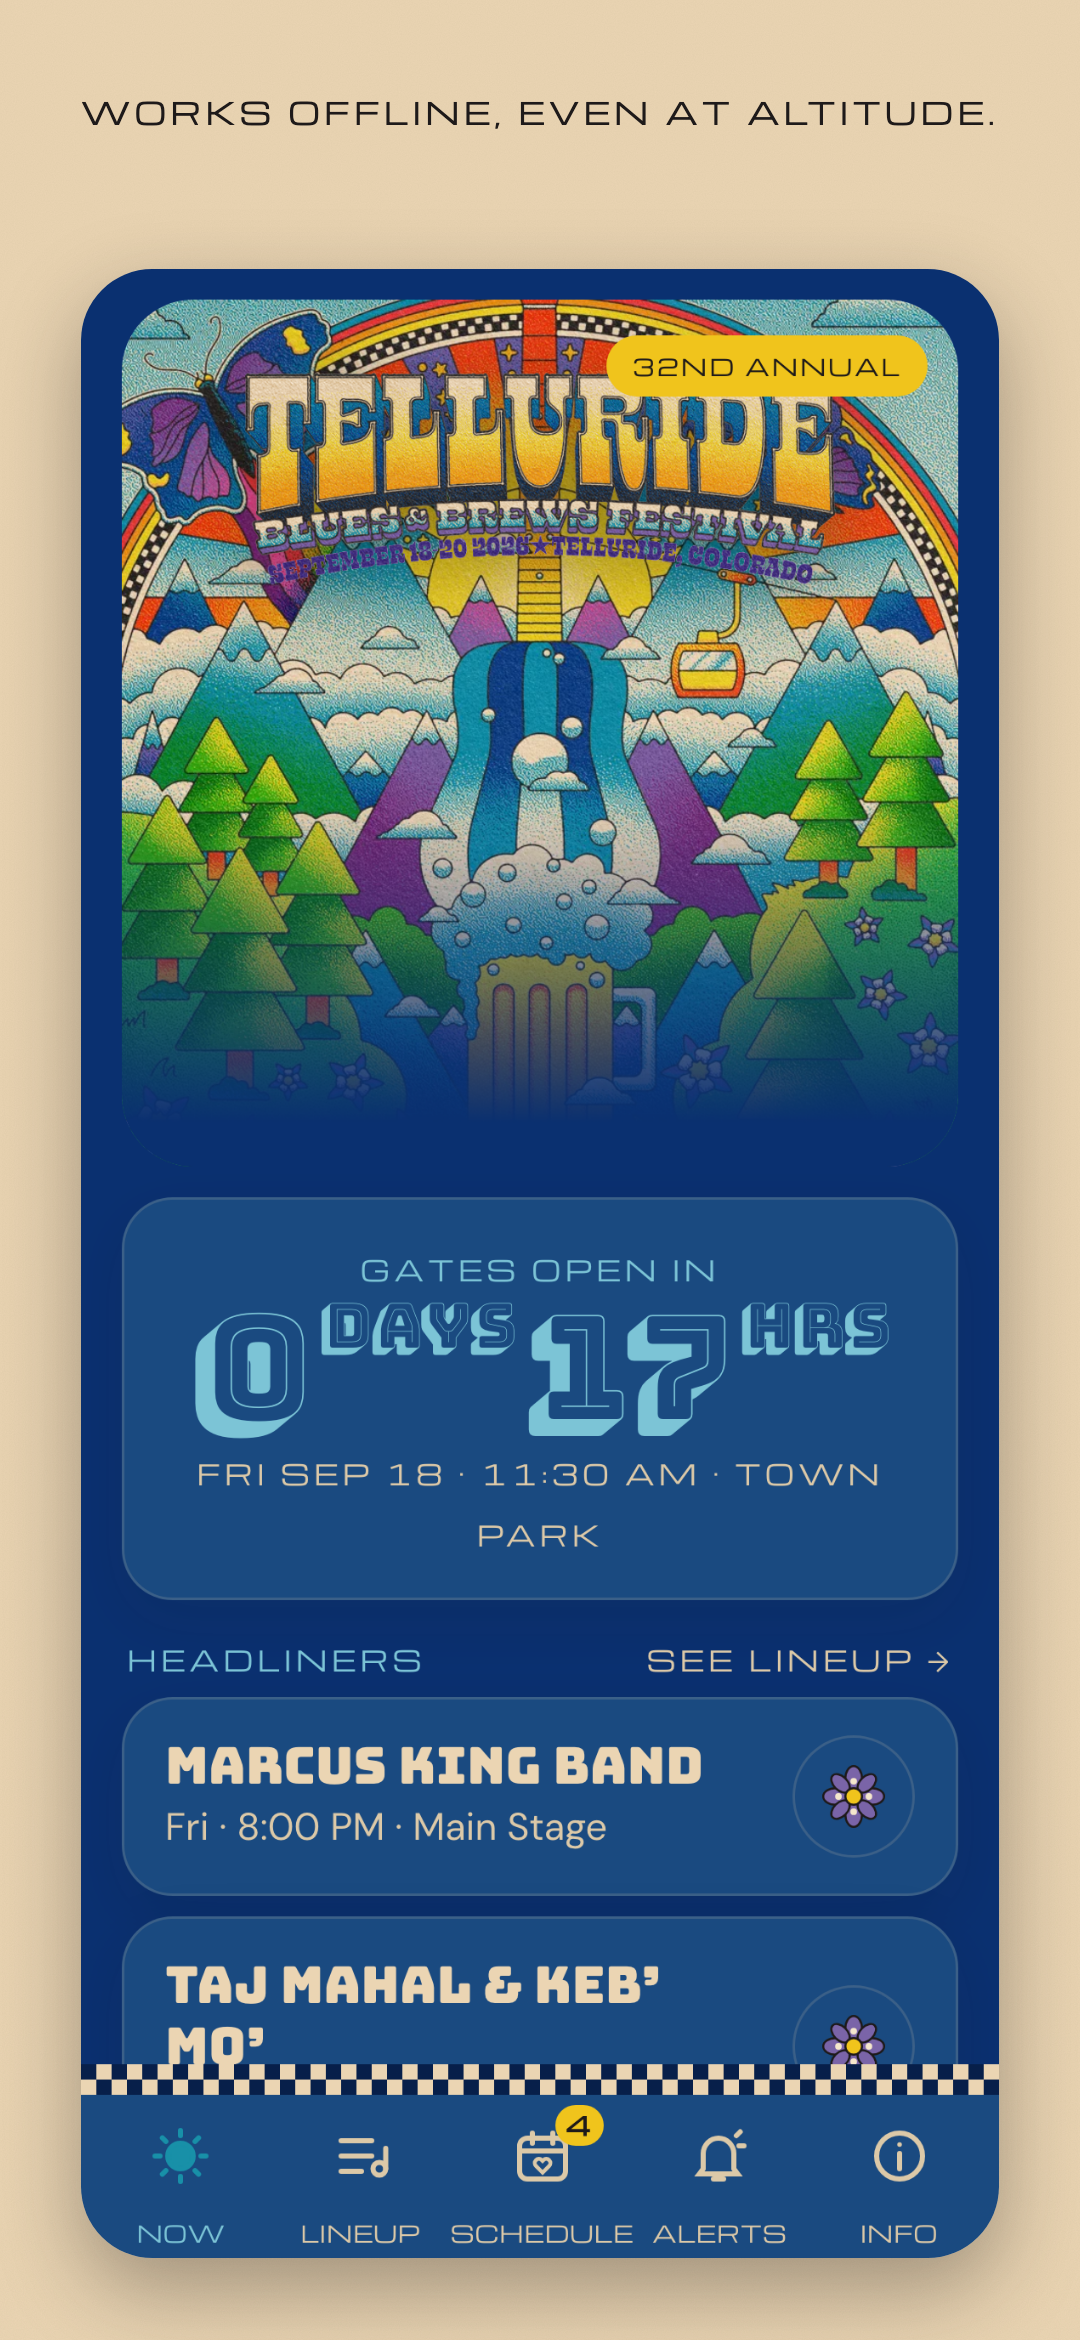
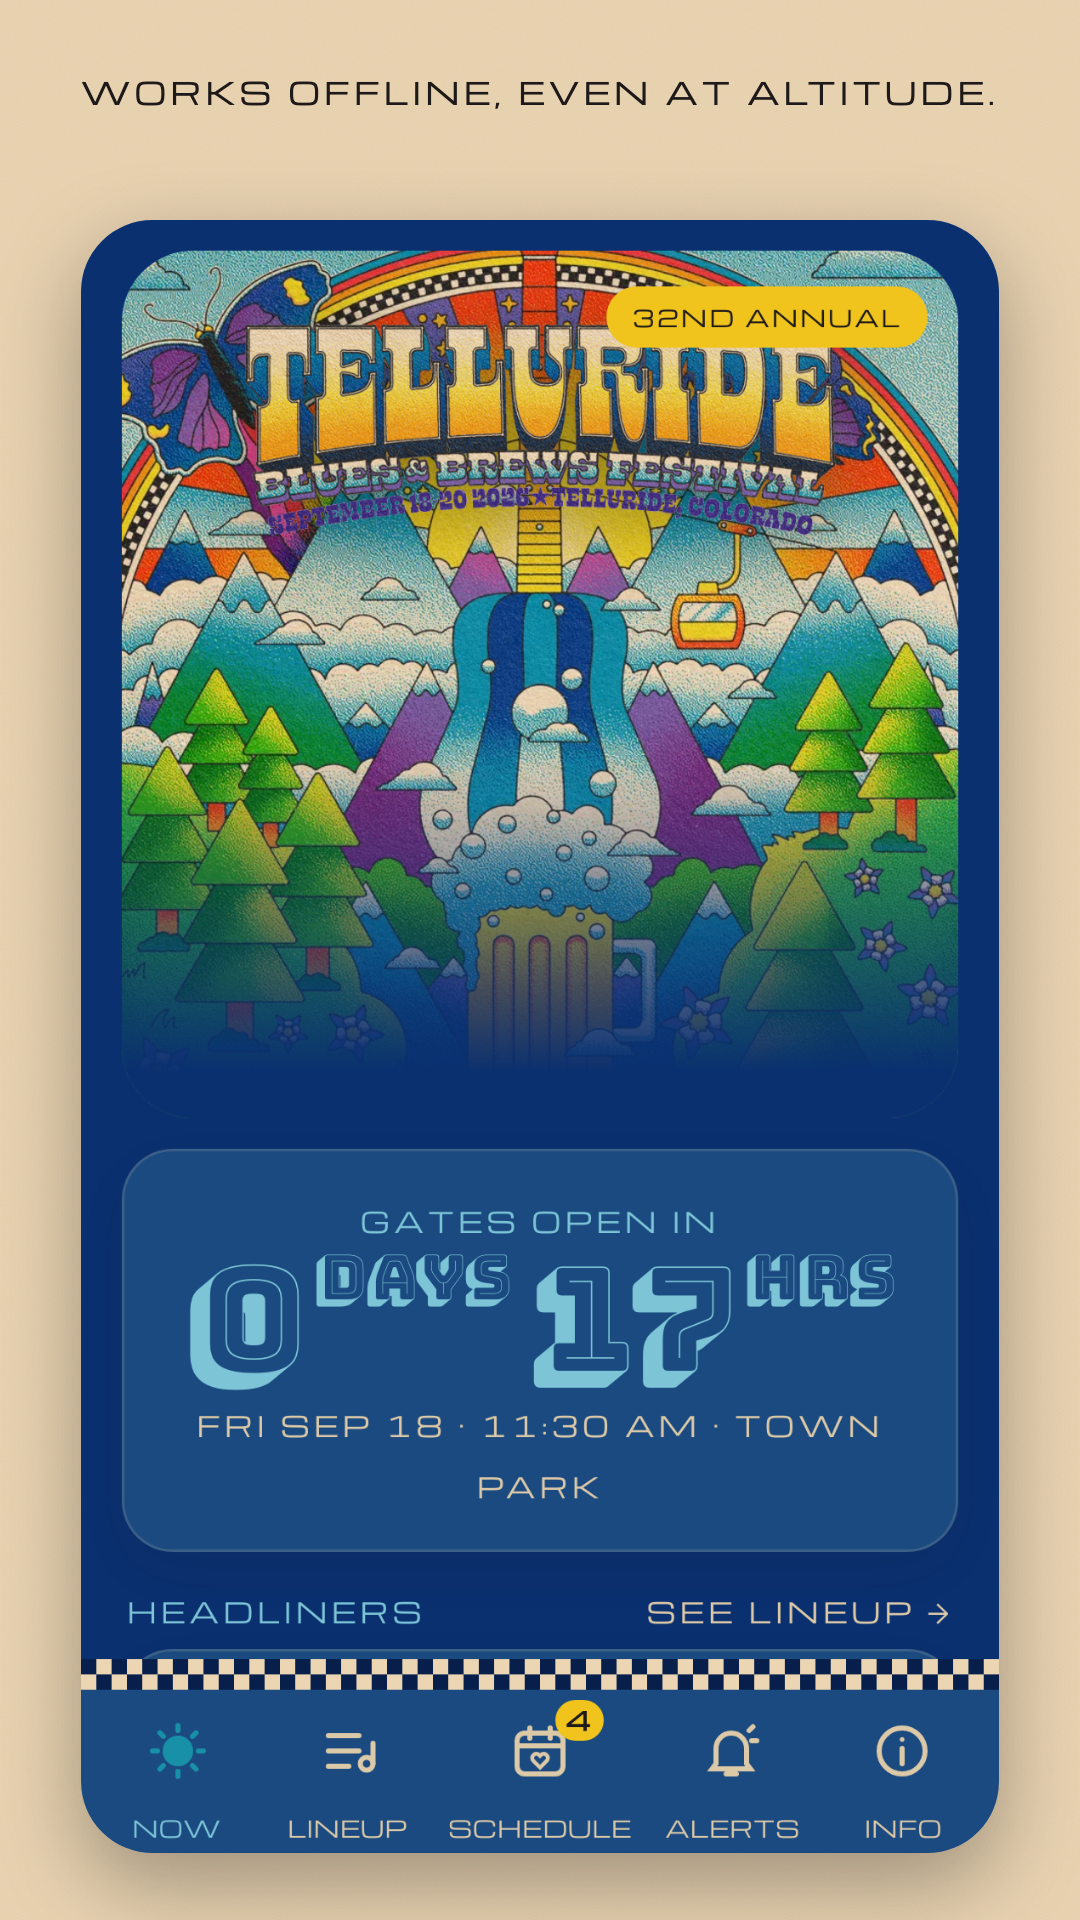
fix(store): publish-readiness review fixes (D-029)
Code: Add to calendar is web-only on native; Android draws edge-to-edge with real bar insets bridged to --inset-t/--inset-b; Android portrait lock; production never schedules reminders against the dev clock; Maps link opens Google Maps on Android; version 1.0.0 everywhere (package.json, iOS MARKETING_VERSION, Info footer); Schedule tab sizes to its label on 360dp phones.
Store: Play screenshots 1080x1920; alerts screenshot uses benign sample notices (VITE_ALERTS_FIXTURE=store); review notes, privacy answers, listing, checklist corrected; privacy policy names the offline cache and clipboard fallback.

diff --git a/apps/festival/src/features/info/PrivacyScreen.tsx b/apps/festival/src/features/info/PrivacyScreen.tsx
@@ -27,6 +27,7 @@ export function PrivacyScreen() {
         <ul className="mt-1.5 list-disc space-y-1 pl-5">
           <li>your favorited sets and the schedule built from them, including any conflict choices</li>
           <li>your settings: appearance, reminder lead time, whether set reminders are on, and which alerts you have read</li>
+          <li>a cached copy of the lineup and alerts, so the app works offline</li>
         </ul>
         <p className="mt-1.5">Deleting the app, or clearing the website's data in your browser, erases all of it. We have no copy.</p>
       </Section>
@@ -37,6 +38,7 @@ export function PrivacyScreen() {
           <li><b className="text-fg">The web version</b> is served from GitHub Pages, which receives ordinary web-server request information to deliver the page. There is no analytics or tracking on top of that.</li>
           <li><b className="text-fg">Set reminders</b> (iPhone and Android app only) are scheduled on your device with the operating system's local notifications. They are not sent through us or any push service.</li>
           <li><b className="text-fg">Links</b> to tellurideblues.com, to the ticket seller (telluride.frontgatetickets.com), and to maps open in your browser or maps app, which have their own privacy practices.</li>
+          <li><b className="text-fg">Sharing</b> (web version only): if your browser does not support the native share sheet, sharing may instead copy the text to your clipboard.</li>
         </ul>
       </Section>
 

diff --git a/apps/festival/src/features/plan/PlanScreen.tsx b/apps/festival/src/features/plan/PlanScreen.tsx
@@ -8,6 +8,7 @@ import { planToIcs, planToText } from "@/domain/ics";
 import { formatDuration, formatRange, formatTime, isoMs, minutesBetween, parseIso } from "@/domain/time";
 import { usePlanStore } from "@/state/plan";
 import type { DayId } from "@bb/shared";
+import { runtime } from "@/platform/runtime";
 import { share } from "@/platform/share";
 import { PlanEmpty } from "./PlanEmpty";
 import { PlanSettings } from "./PlanSettings";
@@ -56,7 +57,8 @@ export function PlanScreen() {
         </Card>
       )}
       {daySets.length === 0 ? <p className="mt-6 text-center text-fg-soft">Nothing planned for this day yet.</p> : <PlanTimeline sets={daySets} now={now} />}
-      <div className="mt-2 flex gap-2"><Button size="sm" className="flex-1" onClick={exportIcs}>Add to calendar</Button><Button size="sm" className="flex-1" onClick={shareText}>Share as text</Button></div>
+      {/* .ics download is web-only in v1: native has no Filesystem plugin, so a "file share" would only paste raw calendar text (D-029) */}
+      <div className="mt-2 flex gap-2">{!runtime.isNative() && <Button size="sm" className="flex-1" onClick={exportIcs}>Add to calendar</Button>}<Button size="sm" className="flex-1" onClick={shareText}>Share as text</Button></div>
       {settingsOpen && <PlanSettings onClose={() => setSettingsOpen(false)} />}
     </div>
   );

diff --git a/apps/festival/playwright.store.config.ts b/apps/festival/playwright.store.config.ts
@@ -7,7 +7,7 @@ import { defineConfig } from "@playwright/test";
 //
 // Each project's viewport x deviceScaleFactor equals the exact required output pixel size,
 // so a raw `page.screenshot()` in that project already is the store dimension (no upscale/
-// crop): iPhone 6.9" -> 1320x2868, Android phone -> 1080x2340.
+// crop): iPhone 6.9" -> 1320x2868, Android phone -> 1080x1920 (9:16; Play rejects long sides over 2x the short side).
 export default defineConfig({
   testDir: "./e2e",
   testMatch: /store-shots\.spec\.ts/,
@@ -17,13 +17,13 @@ export default defineConfig({
   use: { baseURL: "http://localhost:5173", browserName: "chromium" },
   projects: [
     { name: "ios-6.9", use: { viewport: { width: 440, height: 956 }, deviceScaleFactor: 3 } },
-    { name: "android-phone", use: { viewport: { width: 360, height: 780 }, deviceScaleFactor: 3 } },
+    { name: "android-phone", use: { viewport: { width: 360, height: 640 }, deviceScaleFactor: 3 } },
   ],
   webServer: {
     command: "npm run dev",
     url: "http://localhost:5173",
     reuseExistingServer: true,
     timeout: 60_000,
-    env: { ...process.env, VITE_DATA_SOURCE: "bundled" },
+    env: { ...process.env, VITE_DATA_SOURCE: "bundled", VITE_ALERTS_FIXTURE: "store" },
   },
 });

diff --git a/apps/festival/src/features/info/InfoScreen.tsx b/apps/festival/src/features/info/InfoScreen.tsx
@@ -10,6 +10,7 @@ import { useUiStore } from "@/state/ui";
 import { InstallSheet } from "./InstallSheet";
 import { useInstall } from "@/platform/install";
 import { useUpdateStore } from "@/state/updates";
+import { runtime } from "@/platform/runtime";
 
 // Inline text buttons in an 18 px line: extend the hit area invisibly to the 44 px floor (18 + 13 + 13).
 const INLINE_LINK = "relative inline-block underline before:absolute before:inset-x-0 before:-inset-y-[13px] before:content-['']";
@@ -72,7 +73,7 @@ export function InfoScreen() {
         <Row label="Schedule" href={festival.links.schedule}>↗</Row>
         <Row label="FAQ" href={festival.links.faq}>↗</Row>
         <Row label="Festival guide" href={festival.links.guide}>↗</Row>
-        <Row label="Town Park in Maps" href={`https://maps.apple.com/?q=${encodeURIComponent(`${festival.venue}, ${festival.city}`)}`}>↗</Row>
+        <Row label="Town Park in Maps" href={`${runtime.platform() === "android" ? "https://maps.google.com/?q=" : "https://maps.apple.com/?q="}${encodeURIComponent(`${festival.venue}, ${festival.city}`)}`}>↗</Row>
       </Card>
 
       <Eyebrow tone="structure" className="mt-4 block px-0.5">Settings</Eyebrow>

diff --git a/apps/festival/src/app/TabBar.tsx b/apps/festival/src/app/TabBar.tsx
@@ -24,9 +24,9 @@ export function TabBar() {
   return (
     <nav aria-label="Sections" className="fixed inset-x-0 bottom-0 z-30 mx-auto max-w-[480px]">
       <CheckerRibbon rows={2} />
-      <div className="grid grid-cols-5 bg-surface px-1 pt-2 safe-b">
+      <div className="grid grid-cols-[1fr_1fr_auto_1fr_1fr] bg-surface px-1 pt-2 safe-b">
         {TABS.map(({ to, label, Icon }) => (
-          <NavLink key={to} to={to} end={to === "/"} className={({ isActive }) => `relative grid min-h-14 min-w-0 place-items-center gap-1 micro ${isActive ? "text-sky" : "text-fg-soft"}`}>
+          <NavLink key={to} to={to} end={to === "/"} className={({ isActive }) => `relative grid min-h-14 min-w-0 place-items-center gap-1 micro ${to === "/plan" ? "px-1.5" : ""} ${isActive ? "text-sky" : "text-fg-soft"}`}>
             {({ isActive }) => (
               <>
                 {to === "/plan" && <Badge count={favorites} tone="sun" />}

diff --git a/apps/festival/vite.config.ts b/apps/festival/vite.config.ts
@@ -4,6 +4,8 @@ import react from "@vitejs/plugin-react";
 import tailwindcss from "@tailwindcss/vite";
 import { VitePWA } from "vite-plugin-pwa";
 import { fileURLToPath } from "node:url";
+import { readFileSync } from "node:fs";
+const APP_VERSION: string = JSON.parse(readFileSync(new URL("./package.json", import.meta.url), "utf8")).version;
 
 const base = process.env.BASE_PATH ?? "/";
 
@@ -46,7 +48,7 @@ export default defineConfig({
     }),
   ],
   resolve: { alias: { "@": fileURLToPath(new URL("./src", import.meta.url)) } },
-  define: { __APP_VERSION__: JSON.stringify(process.env.npm_package_version ?? "0.0.0") },
+  define: { __APP_VERSION__: JSON.stringify(APP_VERSION) }, // from package.json, not the npm env, so bare `vite build` matches
   test: {
     environment: "jsdom",
     setupFiles: ["./src/test/setup.ts"],

diff --git a/apps/festival/src/data/alerts.ts b/apps/festival/src/data/alerts.ts
@@ -2,7 +2,12 @@ import { useSyncExternalStore } from "react";
 import { Alert } from "@bb/shared";
 import { z } from "zod";
 import { isoMs } from "@/domain/time";
-import fixture from "./alerts.fixture.json";
+import devFixture from "./alerts.fixture.json";
+import storeSample from "./alerts.store-sample.json";
+
+// Dev/test fixture exercises every severity and edge case; the store-screenshot run swaps in benign
+// organizer-style notices so no invented incident ever appears on a public listing (readiness review, 2026-09-14).
+const fixture = import.meta.env.VITE_ALERTS_FIXTURE === "store" ? storeSample : devFixture;
 import { useFirestore } from "./source";
 
 export interface AlertsRepository {

diff --git a/apps/festival/src/design/tokens.css b/apps/festival/src/design/tokens.css
@@ -153,8 +153,10 @@
     letter-spacing: 0.1em;
     text-transform: uppercase;
   }
-  .safe-b { padding-bottom: env(safe-area-inset-bottom); }
-  .safe-t { padding-top: env(safe-area-inset-top); }
+  /* iOS/web report system bars through env(); Android WebView only reports cutouts, so MainActivity
+     publishes the real bar insets as --inset-t/--inset-b (D-029). */
+  .safe-b { padding-bottom: max(env(safe-area-inset-bottom), var(--inset-b, 0px)); }
+  .safe-t { padding-top: max(env(safe-area-inset-top), var(--inset-t, 0px)); }
 }
 
 @media (prefers-reduced-motion: reduce) {

diff --git a/apps/festival/src/features/plan/useReminderSync.ts b/apps/festival/src/features/plan/useReminderSync.ts
@@ -22,7 +22,7 @@ export function useReminderSync(): void {
   const favorites = usePlanStore((s) => s.favorites);
   const leadMinutes = usePlanStore((s) => s.settings.leadMinutes);
   const remindersOn = usePlanStore((s) => s.remindersOn);
-  const devNow = useUiStore((s) => s.devNow);
+  const devNow = useUiStore((s) => (import.meta.env.DEV ? s.devNow : null)); // production never schedules against the dev clock
   const owned = useRef<Set<number>>(new Set());
   const chain = useRef<Promise<void>>(Promise.resolve());
 

diff --git a/apps/festival/src/features/info/InfoScreen.test.tsx b/apps/festival/src/features/info/InfoScreen.test.tsx
@@ -72,7 +72,7 @@ describe("Info · get the app", () => {
 
   it("footer says offline-ready once the worker is active", async () => {
     renderAt("/info");
-    expect(await screen.findByText(/app 0\.1\.0$/)).toBeInTheDocument();
+    expect(await screen.findByText(/app 1\.0\.0$/)).toBeInTheDocument();
     act(() => useUpdateStore.getState().setOfflineReady());
     expect(screen.getByText(/offline-ready ✓$/)).toBeInTheDocument();
   });

diff --git a/apps/festival/src/vite-env.d.ts b/apps/festival/src/vite-env.d.ts
@@ -2,5 +2,6 @@
 interface ImportMetaEnv {
   readonly VITE_FESTIVAL_NOW?: string;
   readonly VITE_DATA_SOURCE?: "bundled" | "firestore";
+  readonly VITE_ALERTS_FIXTURE?: "store";
 }
 declare const __APP_VERSION__: string;

diff --git a/apps/festival/android/app/src/main/java/com/sbgproductions/bluesandbrews/MainActivity.java b/apps/festival/android/app/src/main/java/com/sbgproductions/bluesandbrews/MainActivity.java
@@ -1,5 +1,51 @@
 package com.sbgproductions.bluesandbrews;
 
+import android.os.Bundle;
+import android.webkit.WebView;
+import androidx.core.graphics.Insets;
+import androidx.core.view.ViewCompat;
+import androidx.core.view.WindowCompat;
+import androidx.core.view.WindowInsetsCompat;
 import com.getcapacitor.BridgeActivity;
 
-public class MainActivity extends BridgeActivity {}
+/**
+ * Edge-to-edge shell (D-029). The web layout paints under the status and navigation bars and pads
+ * itself with `.safe-t` / `.safe-b`. iOS fills those from env(safe-area-inset-*), but Android's
+ * WebView only reports display cutouts there, so the real system-bar insets are pushed into the page
+ * as the CSS custom properties --inset-t / --inset-b (in CSS px). Re-applied on every inset change,
+ * on resume, and shortly after launch in case the first pass ran before the page existed.
+ */
+public class MainActivity extends BridgeActivity {
+  private String lastInsetJs = "";
+
+  @Override
+  public void onCreate(Bundle savedInstanceState) {
+    super.onCreate(savedInstanceState);
+    // Draw under both system bars; the page pads itself from --inset-t/--inset-b below.
+    WindowCompat.setDecorFitsSystemWindows(getWindow(), false);
+    WebView webView = getBridge().getWebView();
+    ViewCompat.setOnApplyWindowInsetsListener(webView, (view, insets) -> {
+      Insets bars = insets.getInsets(WindowInsetsCompat.Type.systemBars() | WindowInsetsCompat.Type.displayCutout());
+      float density = getResources().getDisplayMetrics().density;
+      lastInsetJs = "document.documentElement.style.setProperty('--inset-t','" + (bars.top / density) + "px');"
+        + "document.documentElement.style.setProperty('--inset-b','" + (bars.bottom / density) + "px');";
+      webView.evaluateJavascript(lastInsetJs, null);
+      return insets;
+    });
+    webView.postDelayed(this::reapplyInsets, 800);
+    webView.postDelayed(this::reapplyInsets, 2500);
+  }
+
+  @Override
+  public void onResume() {
+    super.onResume();
+    reapplyInsets();
+  }
+
+  private void reapplyInsets() {
+    WebView webView = getBridge().getWebView();
+    if (webView == null) return;
+    if (lastInsetJs.isEmpty()) ViewCompat.requestApplyInsets(webView);
+    else webView.evaluateJavascript(lastInsetJs, null);
+  }
+}
